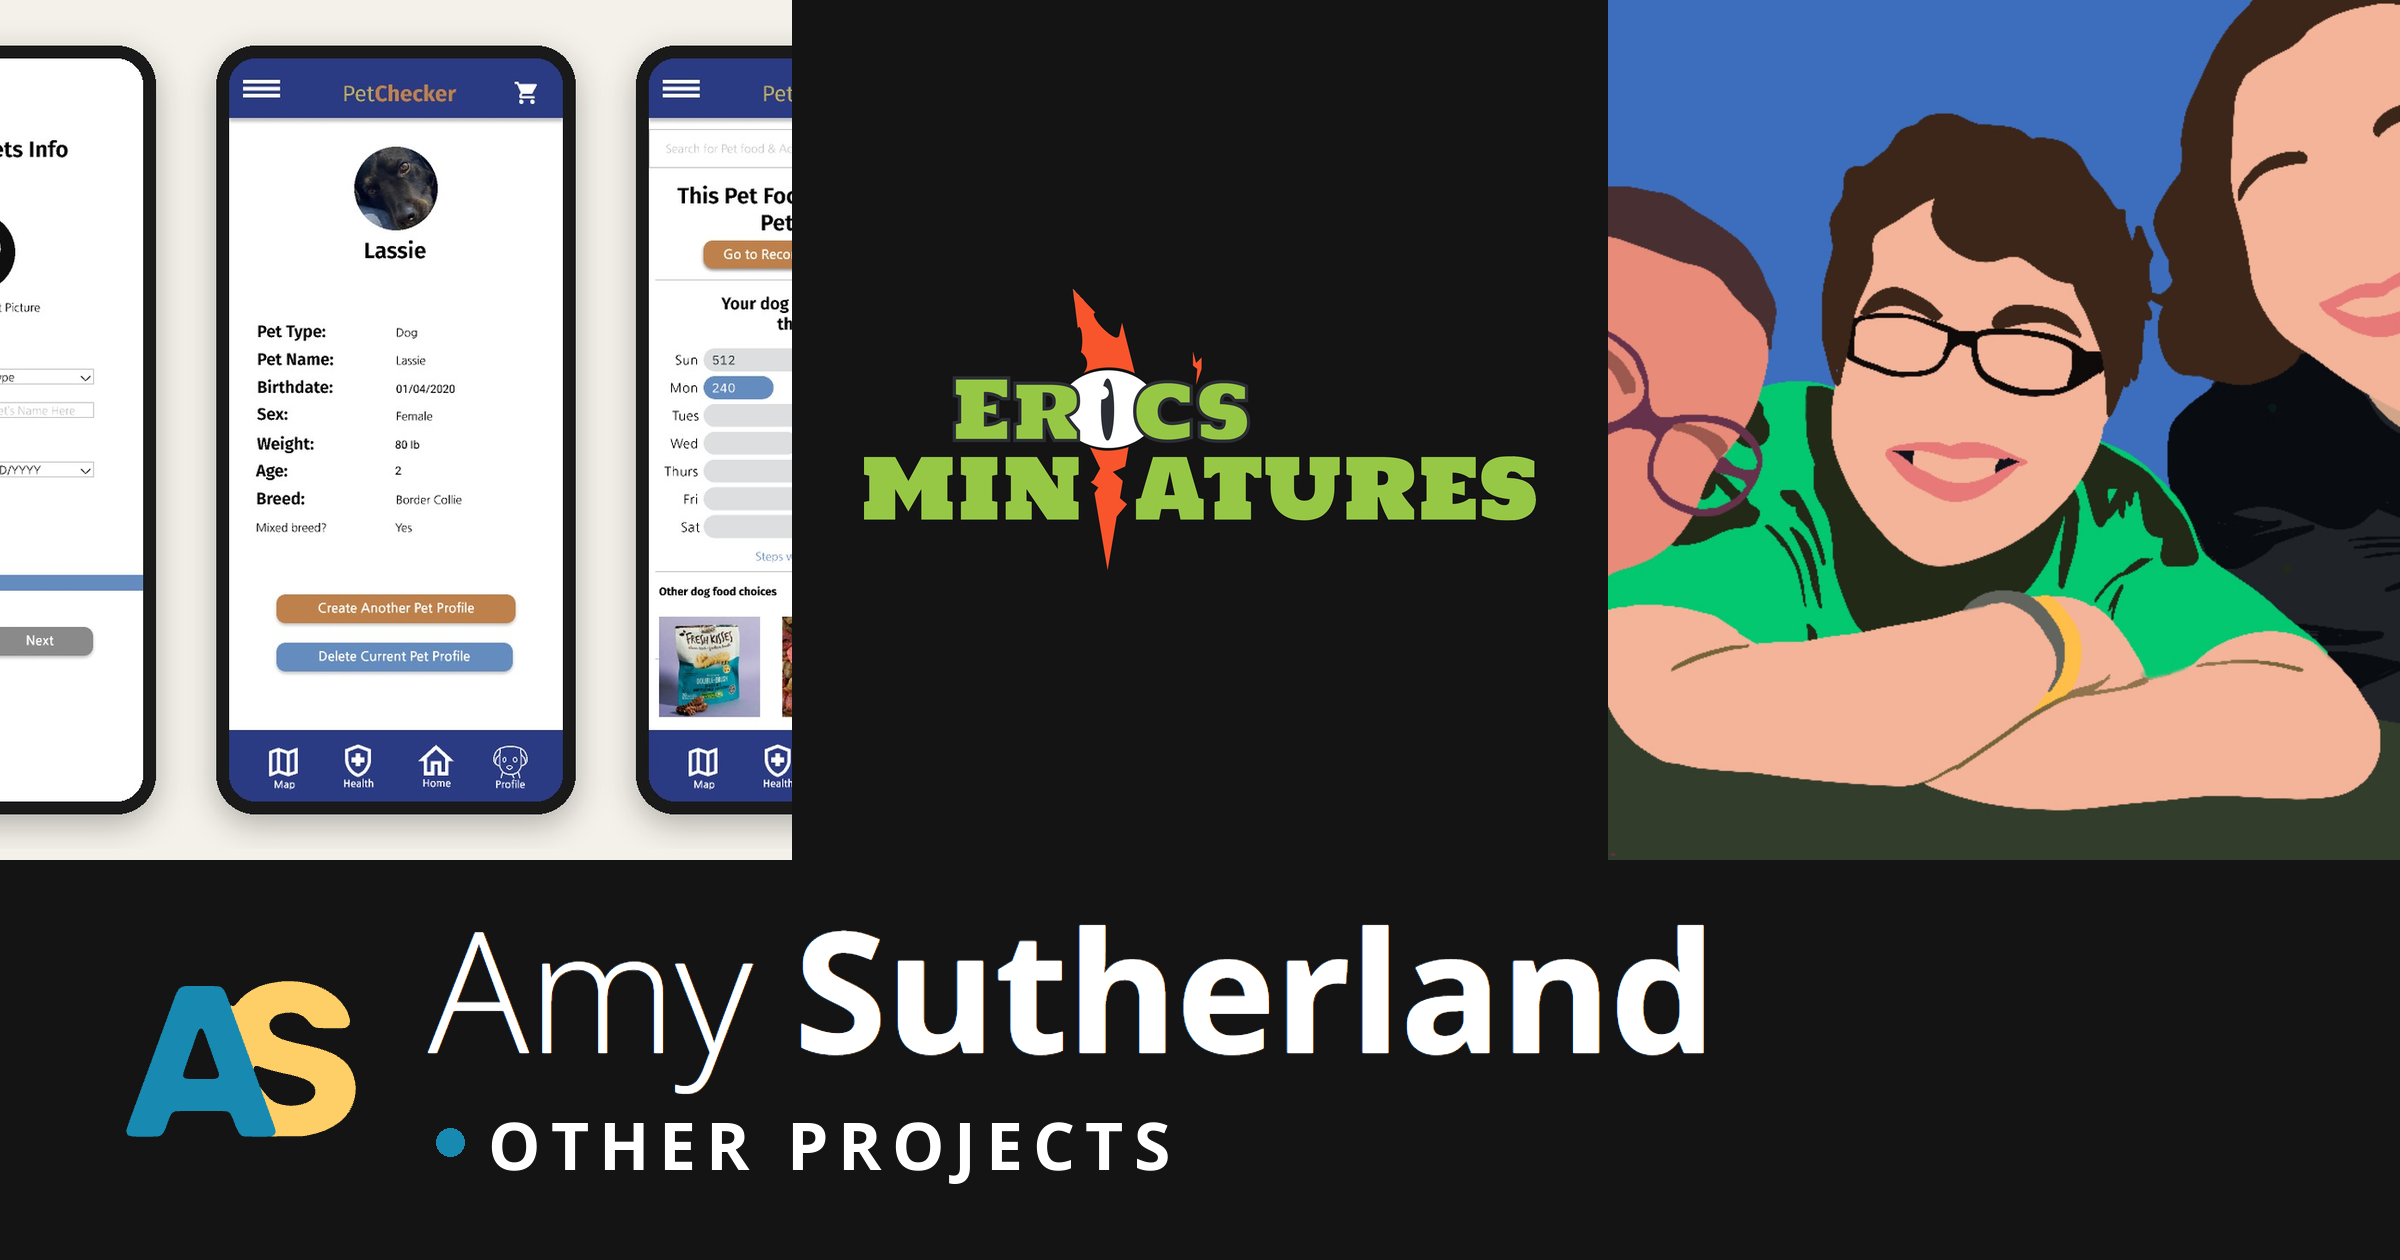
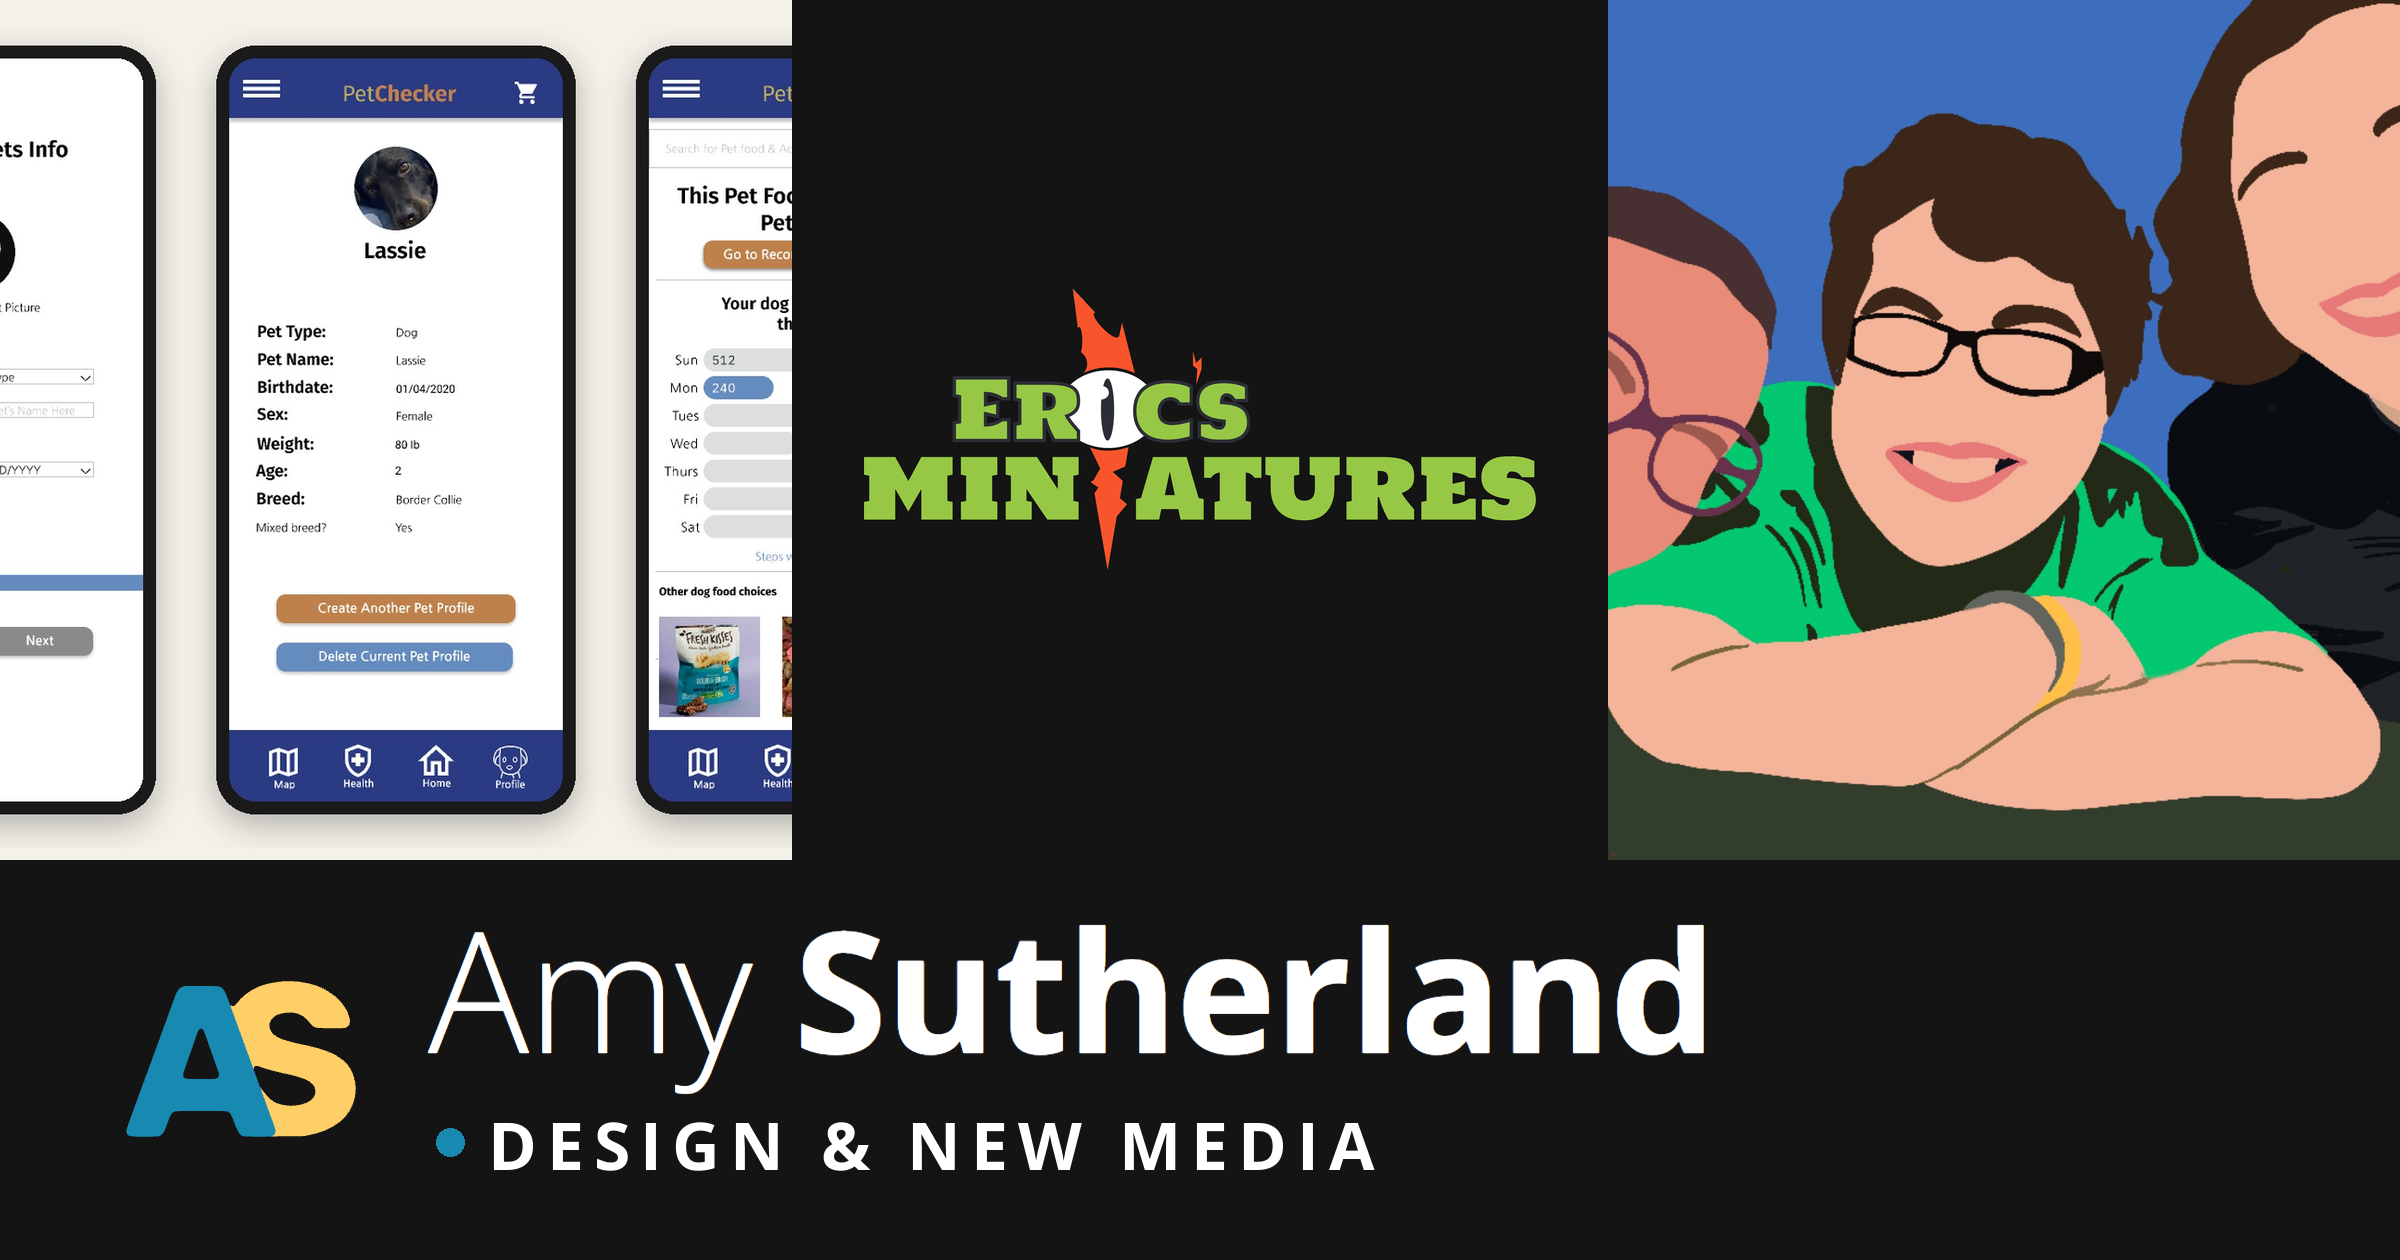
Rename Other projects to Design & new media everywhere, with a redrawn share picture
Claude-Session: https://claude.ai/code/session_01DkZcrmevgWCgx59twn89K8

Changed region(s): [[0.1875, 0.8667, 0.5938, 0.9286]]

diff --git a/src/css/styles.css b/src/css/styles.css
@@ -325,7 +325,7 @@ main:has(.home-wall) { padding-top: 1.5rem; }
 /* Medium (illustration, relief carving, logo design) under a project's title */
 .wall-medium { display: inline-block; margin-top: 0.3rem; padding: 0.05rem 0.5rem; background: var(--brand-yellow); color: var(--ink); font-size: 0.8125rem; font-weight: 700; text-transform: uppercase; letter-spacing: 0.04em; }
 .artwork figcaption .tag { margin-bottom: 0.4rem; }
-/* Other projects on phones: one per row, every thumbnail the same size (the full piece shows on its own page). */
+/* Design & new media on phones: one per row, every thumbnail the same size (the full piece shows on its own page). */
 @media (max-width: 40rem) {
   .wall.wall-uniform { display: grid; grid-template-columns: 1fr; gap: 1.25rem; }
   .wall-uniform .wall-item { flex: none !important; max-width: none !important; width: 100%; }

diff --git a/src/_data/site.js b/src/_data/site.js
@@ -13,7 +13,7 @@ export default {
   social: [],
   nav: [
     { label: "Photography", url: "/photography/" },
-    { label: "Other projects", url: "/projects/" },
+    { label: "Design & new media", url: "/projects/" },
     { label: "About", url: "/about/" },
   ],
 };

diff --git a/README.md b/README.md
@@ -10,7 +10,7 @@ balances the photo rows; the site works without either.
 | To change… | Edit |
 |---|---|
 | Photos (home page and Photography page) | `src/_data/photography.json` + images in `src/images/photography/` |
-| Other projects (illustration, relief carving…) | `src/_data/projects.json` + images in `src/images/projects/` |
+| Design & new media (UX, illustration, relief carving…) | `src/_data/projects.json` + images in `src/images/projects/` |
 | The playable BlackJack game (at `/play/blackjack/`) | `src/play/blackjack/` (copied as-is, not run through the templates) |
 | About page bio and photo | `src/about.njk` (photo in `src/images/about/`) |
 | Name, email, social links, menu | `src/_data/site.js` |
